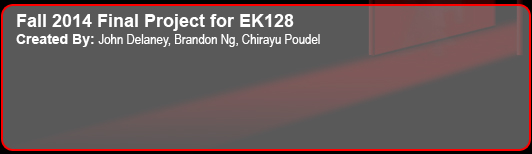
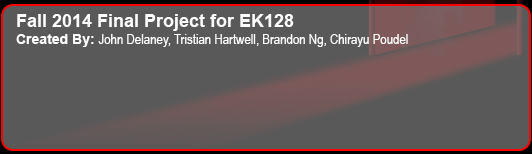
nothing really changed
just added tristian to credits

Changed region(s): [[0.3308, 0.2078, 0.782, 0.3117]]

diff --git a/menu.py b/menu.py
@@ -22,9 +22,9 @@ import sys
 ## - Resolution independence for screen shouldn't be hard, I give an example below
 
 pygame.init()
-size = (1080, 768)
+size = (640,480)
 pygame.display.set_caption("Body Game")
-screen = pygame.display.set_mode((1080, 768))
+screen = pygame.display.set_mode((640,480))
 bgImg = pygame.image.load("res/menu-bg.jpg")
 
 ## EXAMPLE
@@ -99,8 +99,8 @@ while playing:
             screen.blit(instructionsIcon, (260,200))
             instructionsTxt = font.render("Instructions", 1, (255,0,0))
             screen.blit(instructionsTxt, (263, 275))
-            onMouseClick("res/instructions_box.jpg")
             pygame.mouse.set_cursor(*pygame.cursors.diamond)
+            onMouseClick("res/instructions_box.jpg")
             break
 
         if icon.collidepoint(pygame.mouse.get_pos()) and i == 2:
@@ -108,8 +108,8 @@ while playing:
             screen.blit(creditsIcon,(360,200))
             creditsTxt = font.render("Credits", 1, (255,0,0))
             screen.blit(creditsTxt, (377, 275))
-            onMouseClick("res/credits_box.jpg")
             pygame.mouse.set_cursor(*pygame.cursors.diamond)
+            onMouseClick("res/credits_box.jpg")
             break
 
         pygame.mouse.set_cursor(*pygame.cursors.arrow)
